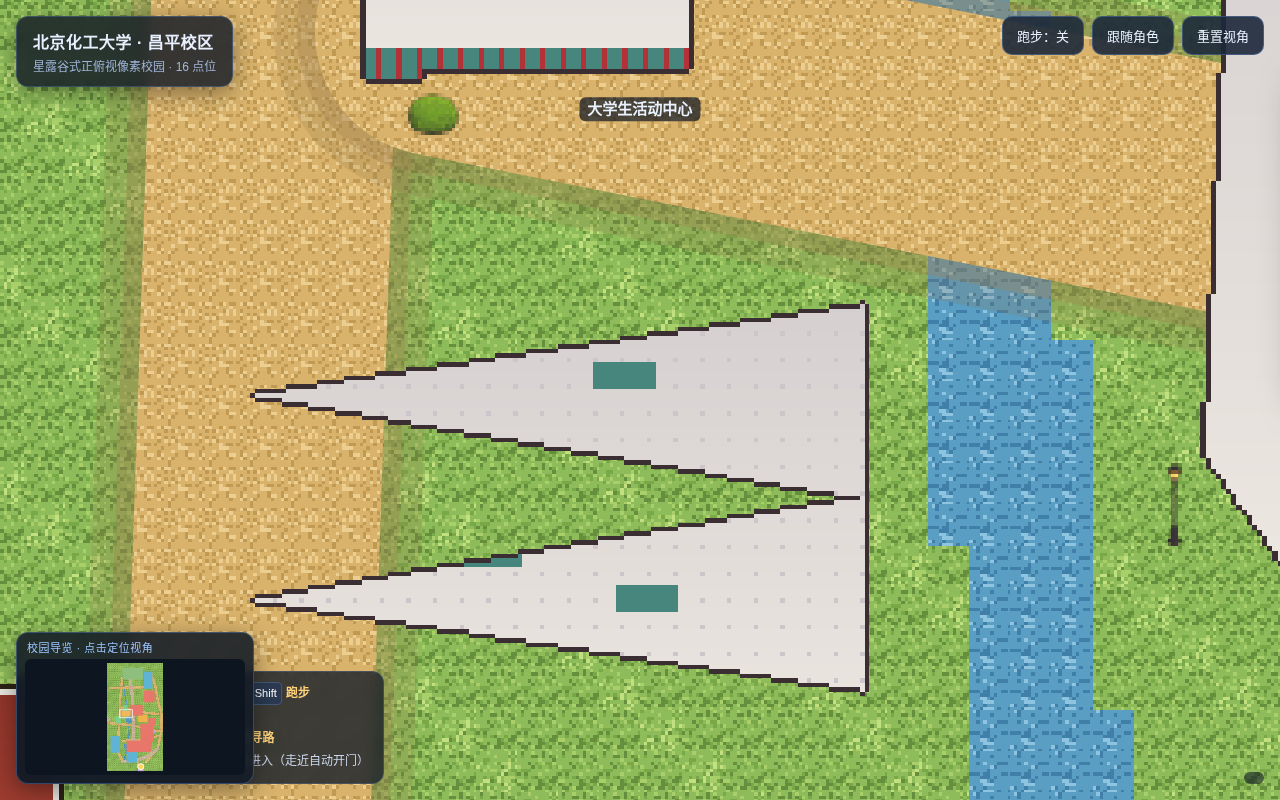
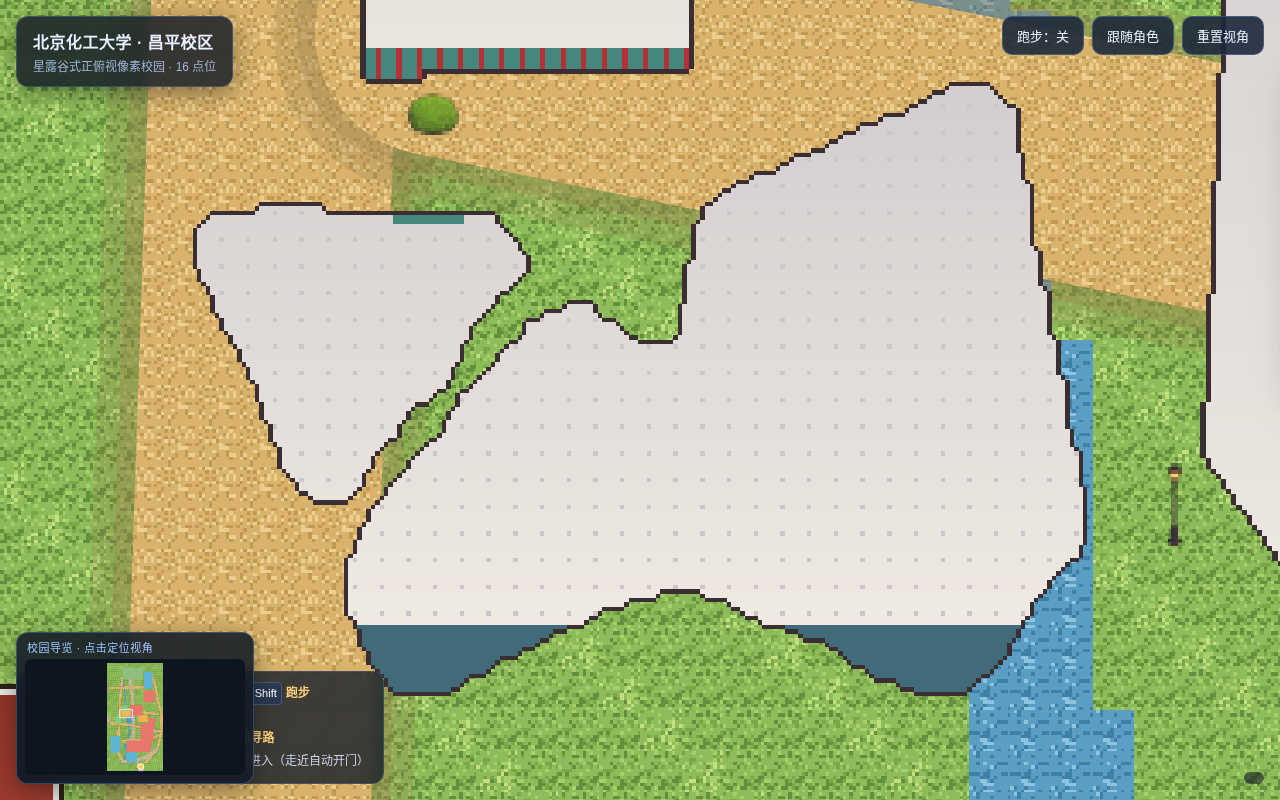
fix(topdown): ACT 按官方 mask 重建后 dy 校正 203→0 + 重拍两张图
- 新 ACT.png 底边透明边距 156→0，dy 随边距重算归零
- 场景位置/朝向/南缘锚点正常，BFS 可达、信息卡正常，console 无错误

Changed region(s): [[0.125, 0.0938, 0.875, 0.875], [0.4375, 0.0938, 0.5625, 0.1562]]

diff --git a/03_地图预览器/js/topdown_data.js b/03_地图预览器/js/topdown_data.js
@@ -662,7 +662,7 @@ window.TOPDOWN_DATA = {
    "w": 804,
    "h": 676,
    "kind": "activity",
-   "dy": 203
+   "dy": 0
   },
   "CAN-YULAN": {
    "file": "img/topdown/sprites/CAN-YULAN.png",
